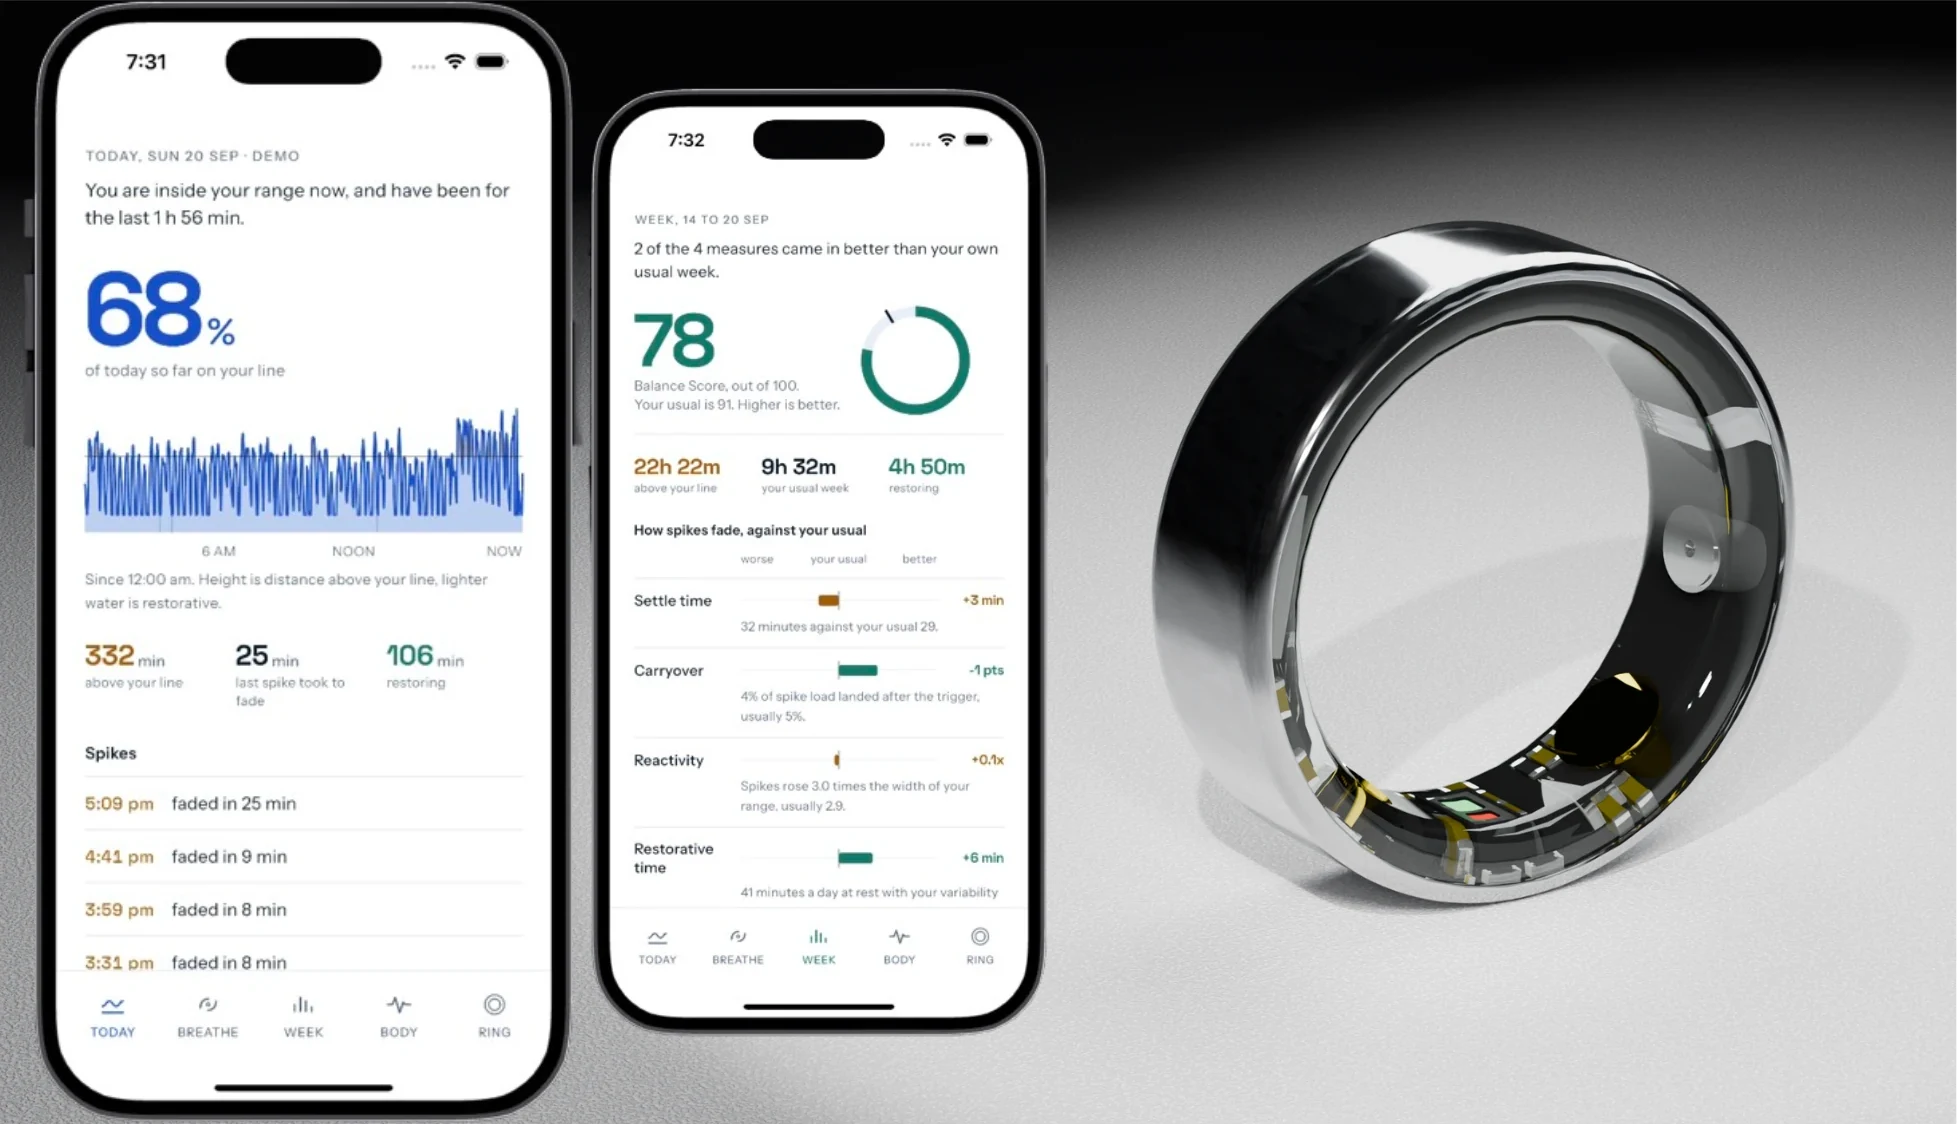
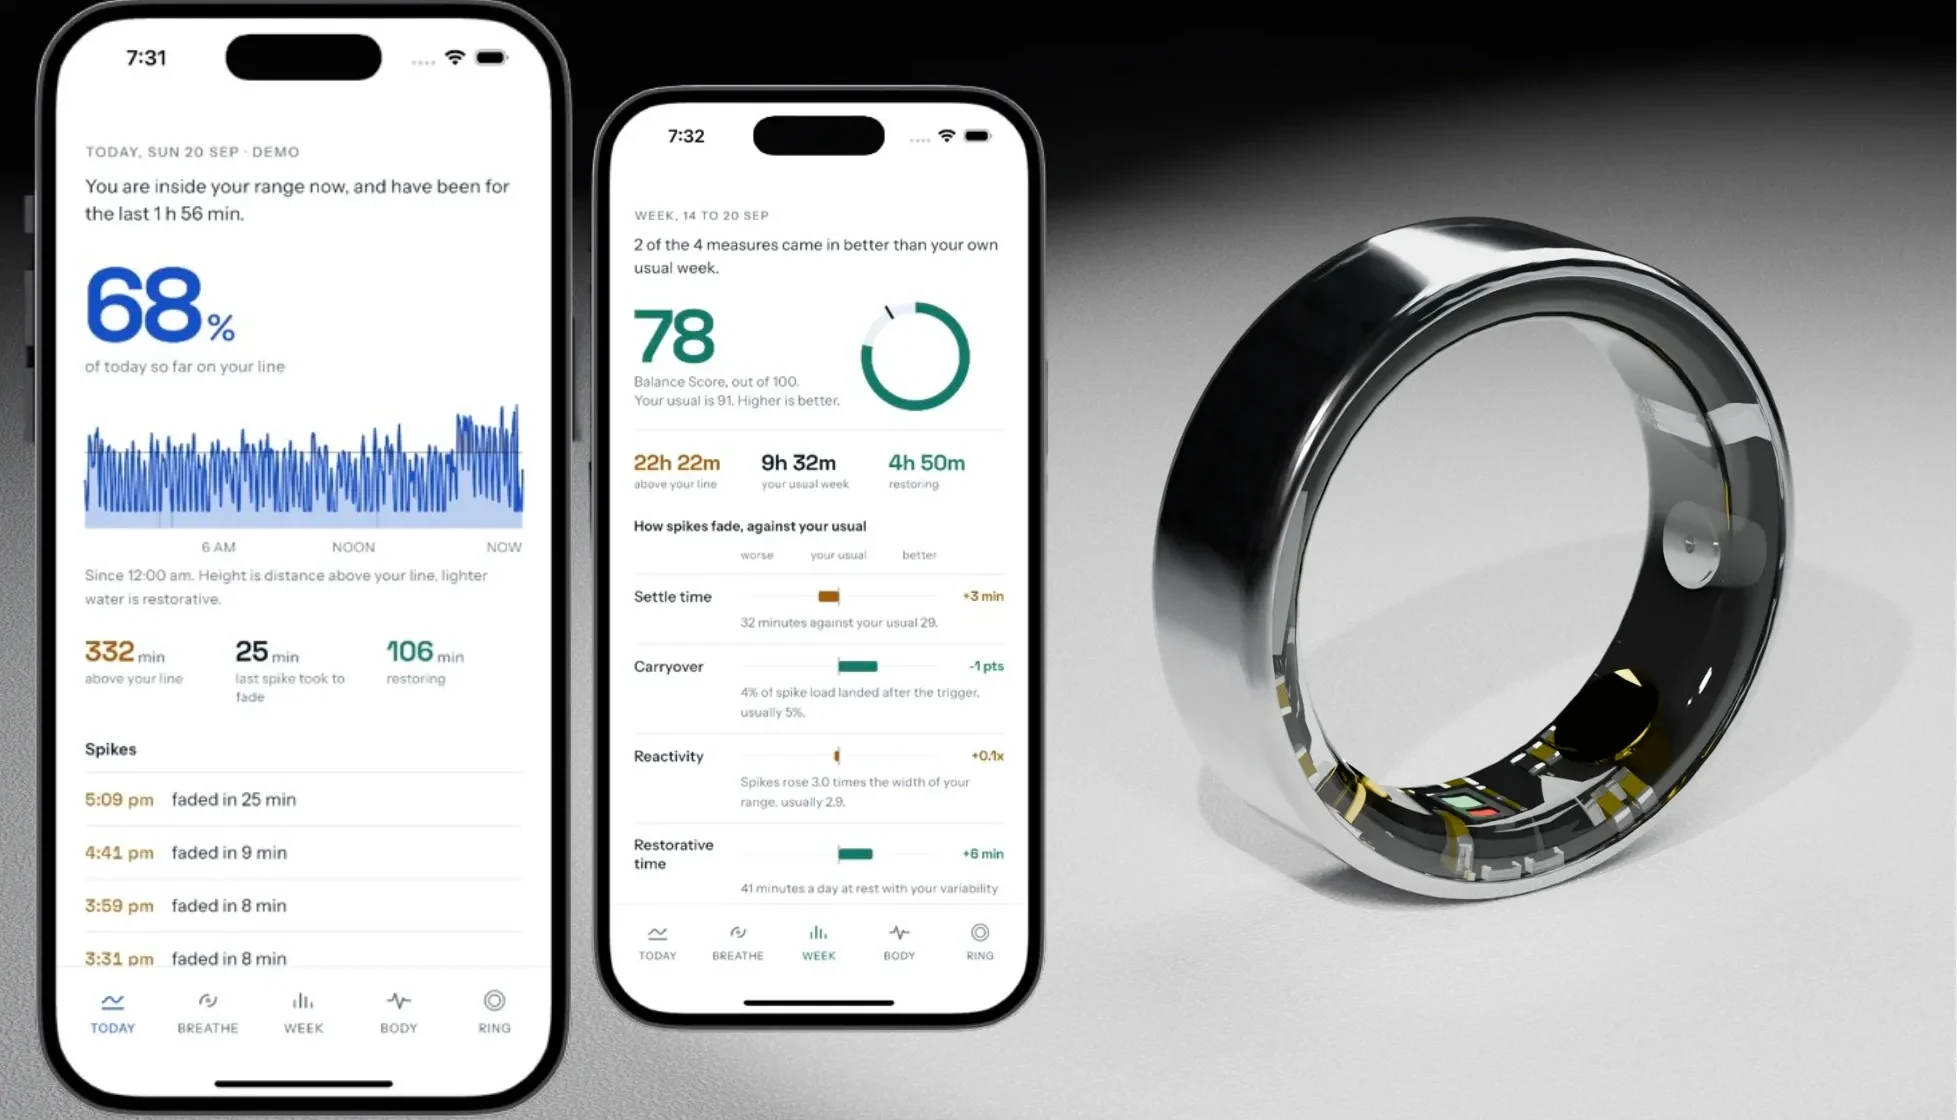
Carry the hero's black into What it does
As a white section with the image in a rounded card, What it does sat
like an island between the black hero and the grey section below. It now
continues the hero's black: white head, then the app-and-ring image wider
than the text column and in no card, every edge feathered into the black,
so the phones and the ring come up out of the same dark the hero ring
landed in. Features set white on black.

The image is re-cut 4px lower: the white-band trim had left a grey
hairline on its top row that printed as a line against the black.

Claude-Session: https://claude.ai/code/session_01792C8RT2AeFinPev553V7H

diff --git a/nerva-site/src/index.css b/nerva-site/src/index.css
@@ -371,36 +371,49 @@ a { color: inherit; text-decoration: none; }
 
 /* ------------------------------------------------------------
    WHAT IT DOES
-   The ring beside the app it talks to, as big as the page allows, then
-   the three things it does side by side under it, each opening with a
-   short stroke in its channel's color.
+   The hero's black carries straight on, so this reads as the next
+   beat of the hero rather than an island of its own: the ring and the
+   app come up out of the dark, wider than the text column and in no
+   card, then the three things it does in white.
    ------------------------------------------------------------ */
+.does { background: #000; color: #fff; }
+.does__bleed { max-width: 1480px; margin: 0 auto; }
 .does__stage {
-  /* the composite's own proportions, so nothing is cropped: both phones
-     and the whole ring stay in frame at every width */
-  aspect-ratio: 1957 / 1124;
-  /* sampled off the render: a black ceiling falling to a lit grey floor,
-     so the stage matches while the lazy image is on its way */
-  background: linear-gradient(to bottom, #000 0%, #3a3a3c 40%, #b9b9bb 100%);
+  margin: 0;
+  /* the composite's own proportions, so nothing is cropped */
+  aspect-ratio: 1957 / 1120;
+  /* Its lit grey floor would stop at the sides and the bottom as hard
+     edges, so every side is feathered into the section's black, the top
+     too, so no row of the render can print as a line. */
+  -webkit-mask-image:
+    linear-gradient(to right, transparent, #000 7%, #000 93%, transparent),
+    linear-gradient(to bottom, transparent, #000 5%, #000 72%, transparent);
+  -webkit-mask-composite: source-in;
+  mask-image:
+    linear-gradient(to right, transparent, #000 7%, #000 93%, transparent),
+    linear-gradient(to bottom, transparent, #000 5%, #000 72%, transparent);
+  mask-composite: intersect;
 }
+.does__stage img { width: 100%; height: 100%; display: block; }
 
 .feats {
   display: grid; grid-template-columns: repeat(3, minmax(0, 1fr));
   gap: clamp(24px, 3.5vw, 56px);
-  margin-top: clamp(40px, 5vw, 64px);
+  margin-top: clamp(24px, 3vw, 44px);
 }
 .feat::before {
   content: ''; display: block; width: 36px; height: 3px; border-radius: 2px;
-  margin-bottom: 20px; background: var(--line-2);
+  margin-bottom: 20px; background: rgba(255, 255, 255, 0.3);
 }
 .feat--gold::before   { background: var(--gold); }
 .feat--sensor::before { background: var(--sensor); }
-.feat--pulse::before  { background: var(--pulse-ink); }
+.feat--pulse::before  { background: var(--pulse); }
 .feat h3 {
-  margin: 0; font-weight: 650; letter-spacing: -0.022em;
+  margin: 0; font-weight: 650; letter-spacing: -0.022em; color: #fff;
   font-size: clamp(1.2rem, 1.05rem + 0.5vw, 1.45rem); line-height: 1.2;
 }
-.feat p { margin: 10px 0 0; color: var(--ink-2); font-size: 1.02rem; line-height: 1.6; }
+.feat p { margin: 10px 0 0; color: rgba(255, 255, 255, 0.66); font-size: 1.02rem; line-height: 1.6; }
+.does .abbr { color: #fff; }
 /* the two abbreviations are the only data labels in this section, so they
    take the mono the rest of the page reserves for readings */
 .abbr {

diff --git a/nerva-site/src/App.tsx b/nerva-site/src/App.tsx
@@ -721,32 +721,38 @@ function App() {
         <Hero />
 
         {/* ---------------- WHAT IT DOES ----------------
-            The way a product page opens: a centered head, the ring and the
-            app it talks to as big as the page allows, then the three things
-            it does side by side under it. */}
-        <section className="section" id="does">
+            Carries on in the hero's black rather than opening a new white
+            section, so it reads as what happens after the ring lands, not as
+            a separate card: a centered head, the ring and the app it talks
+            to coming out of the dark, then the three things it does. */}
+        <section className="section does" id="does">
           <div className="wrap">
-            <Reveal className="head">
-              <h2 className="display">What it does</h2>
+            <Reveal className="head head--light">
+              <h2 className="display display--light">What it does</h2>
               <p className="head__sub">
                 NERVA Ring is continuously monitoring your nervous system. Unlike
                 other wearables that are mainly beneficial to athletes, NERVA Ring
                 is tuned specifically for you.
               </p>
             </Reveal>
+          </div>
 
-            <Reveal>
-              <figure className="stage does__stage">
-                <img
-                  src={ringApp}
-                  width={1957}
-                  height={1124}
-                  loading="lazy"
-                  alt="Two demo screens of the NERVA companion app beside the ring in polished silver. One shows today: 68 percent of the day inside your range, with each stress spike and how long it took to fade. The other shows the week: a balance score of 78 and how settle time, carryover, reactivity and restorative time compare with your usual."
-                />
-              </figure>
-            </Reveal>
+          {/* wider than the text column and in no card: the render's black
+              top is the hero's black, so the phones and the ring come up out
+              of the same dark the ring landed in */}
+          <Reveal className="does__bleed">
+            <figure className="does__stage">
+              <img
+                src={ringApp}
+                width={1957}
+                height={1120}
+                loading="lazy"
+                alt="Two demo screens of the NERVA companion app beside the ring in polished silver. One shows today: 68 percent of the day inside your range, with each stress spike and how long it took to fade. The other shows the week: a balance score of 78 and how settle time, carryover, reactivity and restorative time compare with your usual."
+              />
+            </figure>
+          </Reveal>
 
+          <div className="wrap">
             <div className="feats">
               {DOES.map((d, i) => (
                 <Reveal key={d.k} className={`feat feat--${d.channel}`} delay={i * 70}>

diff --git a/NEXT-SESSION.md b/NEXT-SESSION.md
@@ -50,12 +50,17 @@ under 1080px. Every light section opens with a **centered** `.head`.
    41.9% / 37% of the stage, where the light module sits in the last frame;
    **re-measure it if the film changes.** Paused off screen; a steady faint
    glow and no hover under reduced motion.
-2. **`#does`.** Centered head, then `ring-app.webp` (two demo app screens
-   beside the silver ring) on a stage at the image's own 1957:1124 ratio, so
-   nothing crops. It came in as a 2000px chat image; ask Ryan for the
-   original PNG if it needs to be sharper. The phones say DEMO; the footer and
-   the privacy page both say the app screens are a design demo. Then the
-   three features side by side.
+2. **`#does`.** Continues the hero's **black** on purpose: as a white section
+   with the image in a rounded card it read as an island between the hero
+   and the grey section below. Centered white head, then `ring-app.webp`
+   (two demo app screens beside the silver ring) at up to 1480px wide in no
+   card, every edge feathered into the black by a CSS mask. The image's top
+   is pure black, so it rises out of the same dark the hero ring landed in.
+   Its first rows were re-cut after the white-band trim left a grey hairline;
+   if it is re-exported, check row 0 is near black. It came in as a 2000px
+   chat image; ask Ryan for the original PNG if it needs to be sharper. The
+   phones say DEMO, and the footer and privacy page both say the app screens
+   are a design demo. Then the three features, white on black.
 3. **`#signals`.** The EDA readout: both traces on a white card inside a grey
    stage, drawn like an app screen (red PPG + green EDA, generated from a
    seeded RNG so they never repeat). Caption under it says it is modeled, not
